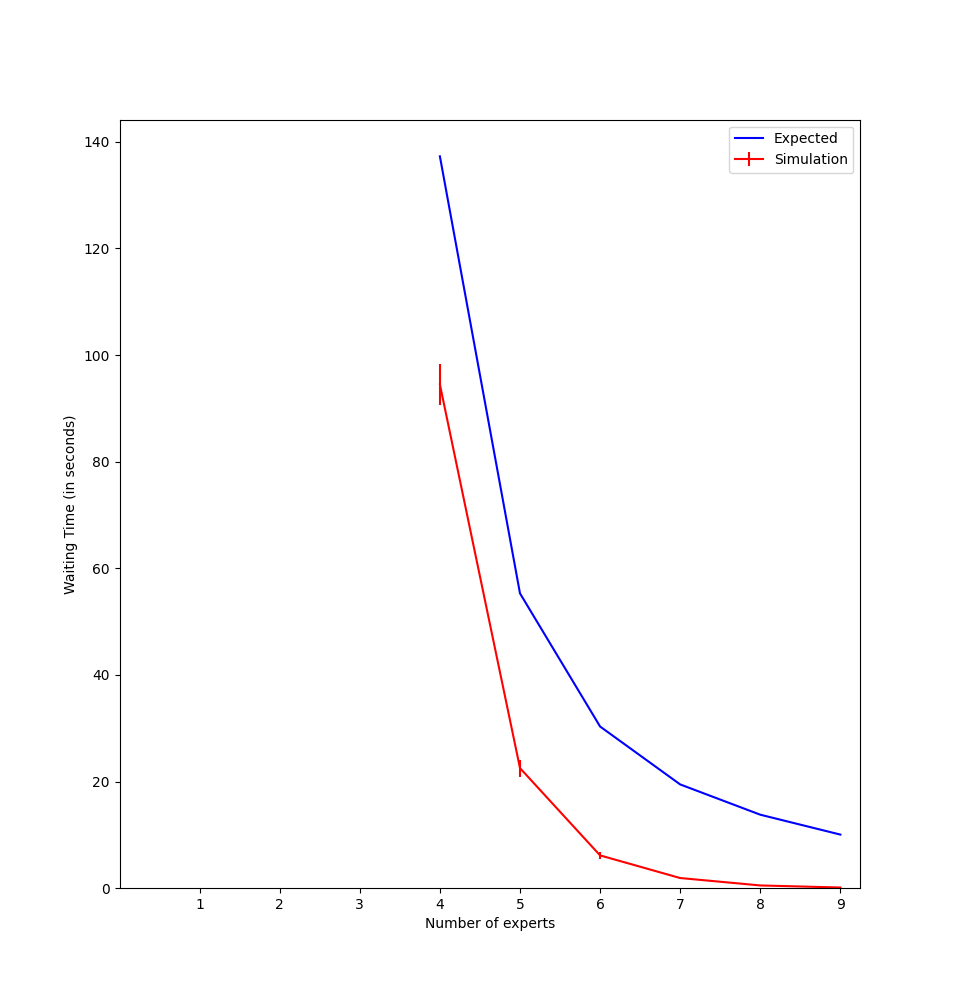
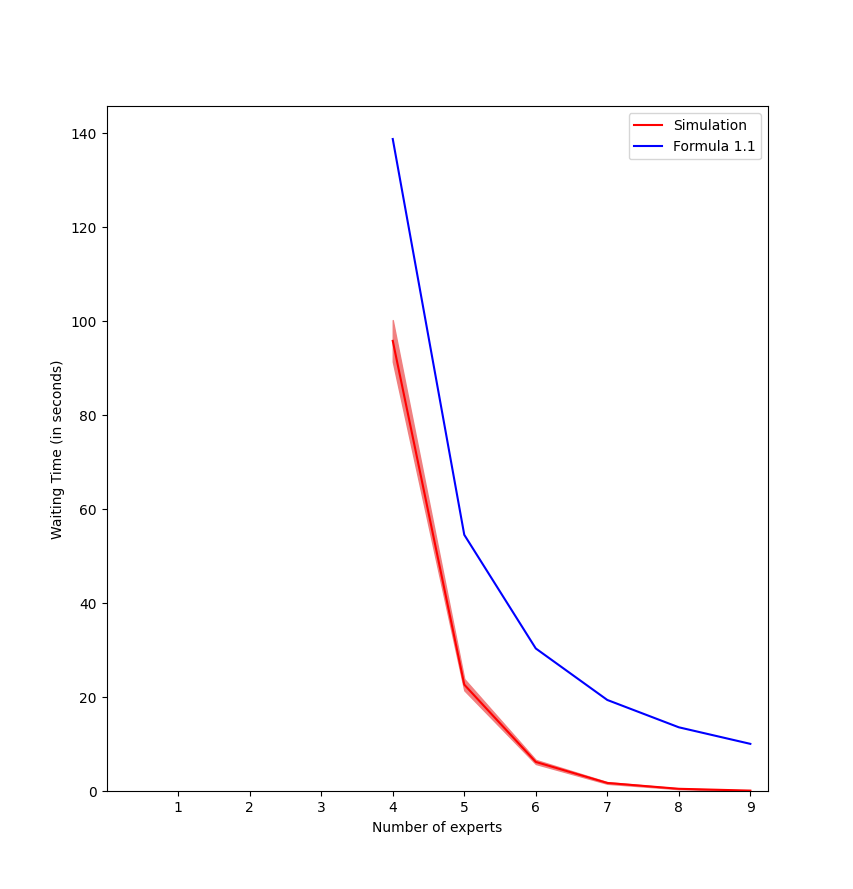
improve human

diff --git a/human.tex b/human.tex
@@ -39,7 +39,7 @@ Several commercial products allow a remote human expert to help a user through
 an assembly task.
 Examples of such system include Microsoft Dynamics 365 Remote
 Assist~\cite{dynamics365}, Webex Expert on Demand~\cite{webex},
-AMA XpertEye~\ref{xpert}, and Vieaura~\ref{vieaura}.
+AMA XpertEye~\cite{xpert}, and Vieaura~\cite{vieaura}.
 The person completing the task wears a headset with a camera, but the expert
 must be on a call with a single user, for the duration of an entire task.
 A task expert's time is valuable.
@@ -189,7 +189,7 @@ service times and other inter-arrival times.
 If a user had the option to give up on waiting, this would violate the
 independence assumption.
 
-\subsection{Simple Simulation}
+\subsection{Simple Simulation}\label{sec:simple}
 
 We compared the wait times from Formula~\ref{eq:wait} with a simple Monte Carlo
 simulation that obeys the independence assumption, which we will call Simulation
@@ -210,8 +210,8 @@ These two distributions are depicted in Figure~\ref{fig:simple_sim1_dists}.
 Samples were generated using SciPy~\cite{scipy}.
 Unfortunately we did not have any real data to help inform the parameter values
 for our distributions.
-We picked parameter values that seemed reasonable based on our experiences with
-WCA applications.
+Therefore, we picked parameter values that seemed reasonable based on our
+experiences with WCA applications.
 Figure~\ref{fig:simple_sim1_results} shows how the waiting times from our
 simulation and the formula vary as we increase the number of experts.
 The system occupancy, which is computed according to Formula~\ref{eq:occupancy},
@@ -247,10 +247,18 @@ service times were lognormal~\cite{queue1, queue2}.
 We therefore modified our simulation to sample call lengths from a lognormal
 distribution, but we kept the exponential distribution for inter-arrival time
 samples.
+We ran the simulation with different numbers of experts.
+Each setting of the number of experts was repeated 10 times, with different
+random values.
+The number of users completing the task at any given point is a function of the
+Poisson arrival process described in \S\ref{sec:simple}, and the lengths of time
+that it takes users to complete the full task.
 The distributions for this version of our simulations are depicted in
 Figure~\ref{fig:simple_sim2_dists}.
-The results from Formula~\ref{eq:wait} are shown in
+The results from the simulation and Formula~\ref{eq:wait} are shown in
 Figure~\ref{fig:simple_sim2_results}.
+The waiting time from the formula was higher than the waiting time from
+the simulation in every case.
 
 \begin{figure}[h]
   \includegraphics[width=\textwidth]{figures/montecarlo/expon_lognorm.png}
@@ -270,9 +278,6 @@ Figure~\ref{fig:simple_sim2_results}.
     Figure~\ref{fig:simple_sim2_dists}.
   }\label{fig:simple_sim2_results}
 \end{figure}
-
-The waiting time from the formula was higher than the waiting time from
-the simulation in every case.
 
 \subsection{Simulating All Steps}
 
